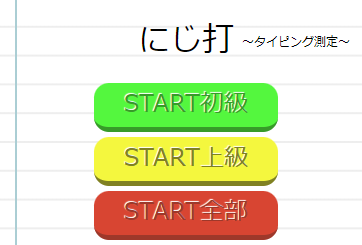
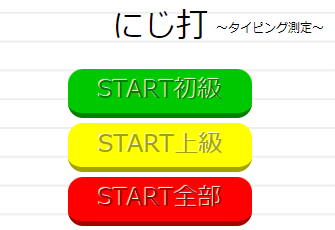
にじ打のボタンのデザインを修正 ツイッターカードも修正 ついでにVTu打のツイッターカードも修正

diff --git a/style.css b/style.css
@@ -63,39 +63,39 @@ body{
 }
 
 .startButton1{
-    background-color: rgb(84, 247, 62);
-    color: rgb(55, 155, 41);
+    background-color: #00c800;
+    color: #008000;
     padding: 4px 30px;
     border: none;
     outline: none;
     border-radius: 15px;
     cursor: pointer;
     text-shadow: -1px -1px 1px #FFF;
-    border-bottom: 5px solid rgb(55, 155, 41);
+    border-bottom: 5px solid #008000;
 }
 
 .startButton2{
-    background-color: rgb(244, 247, 62);
-    color: rgb(128, 129, 34);
+    background-color: #ffff00;
+    color: #a3a300;
     padding: 4px 30px;
     border: none;
     outline: none;
     border-radius: 15px;
     cursor: pointer;
     text-shadow: -1px -1px 1px #FFF;
-    border-bottom: 5px solid rgb(128, 129, 34);
+    border-bottom: 5px solid #a3a300;
 }
 
 .startButton3{
-    background-color: rgb(216, 69, 50);
-    color: rgb(158, 56, 42);
+    background-color: #ff0000;
+    color: #a30000;
     padding: 4px 30px;
     border: none;
     outline: none;
     border-radius: 15px;
     cursor: pointer;
     text-shadow: -1px -1px 1px #FFF;
-    border-bottom: 5px solid rgb(158, 56, 42);
+    border-bottom: 5px solid #a30000;
 }
 
 .startButton4{
